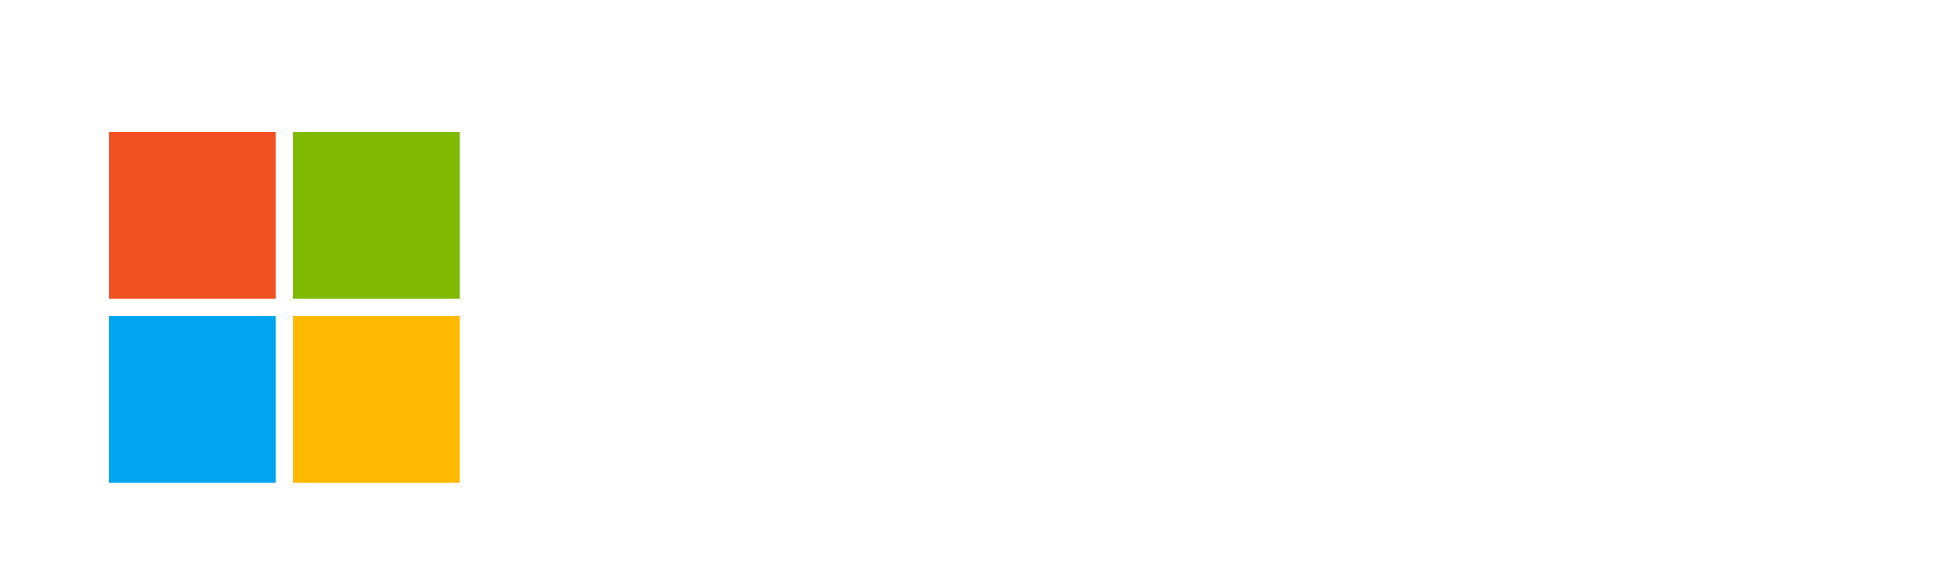
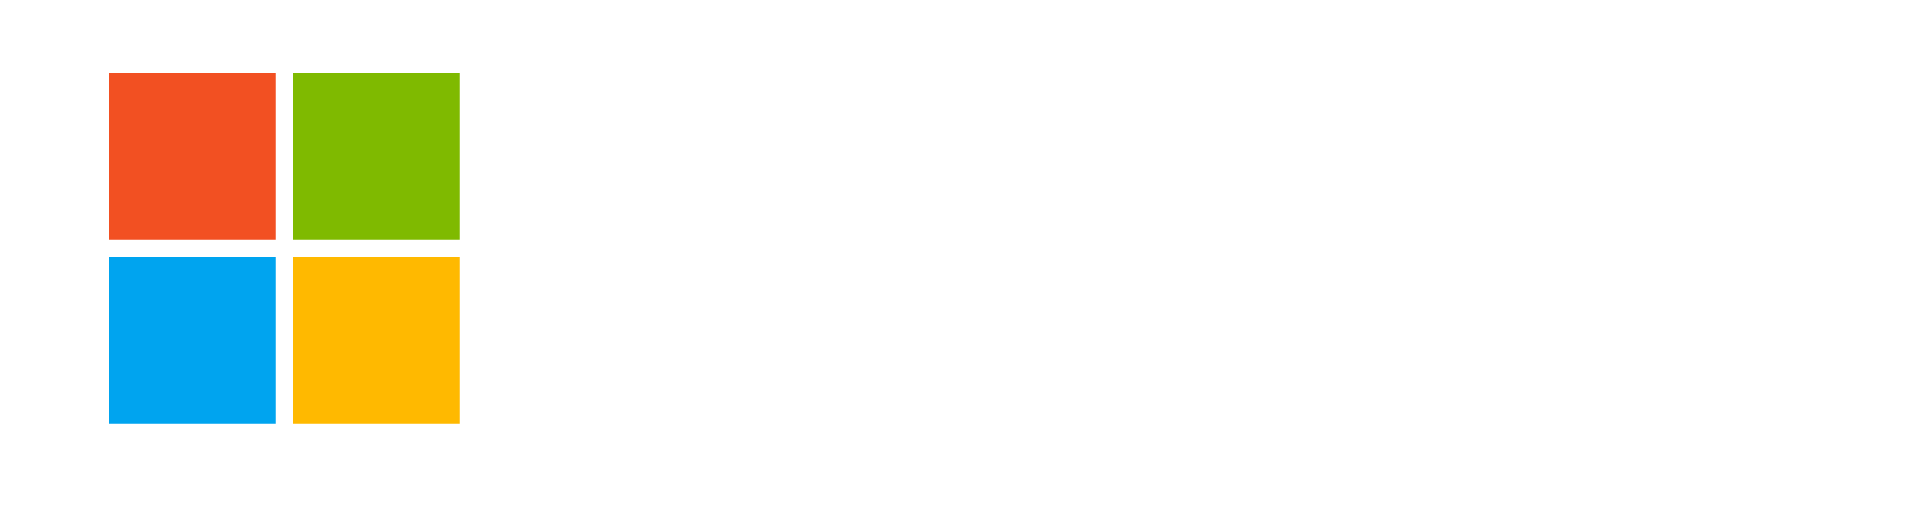
adjusted ui

Changed region(s): [[0.0309, 0.121, 0.247, 0.8469]]

diff --git a/index.html b/index.html
@@ -92,9 +92,9 @@
     </h2>
     <ul style="margin-top: 0;">
       <li style="margin-bottom: -14px;">software engineer @<img src="imgs/ar.png" style="width: 105px; height: auto; vertical-align: middle; padding-bottom: 4px; padding-left: -10px;"></li>
-      <li style="margin-bottom: 0px;">software engineer @<img src="imgs/ms.png" style="width: 75px; height: auto; vertical-align: middle; padding-left: 6px;"> </li>
-      <li style="margin-bottom: 2px;">software engineer @<img src="imgs/a.png" style="width: 50px; height: auto; vertical-align: middle; padding-left: 7px;"></li>
-      <li style="margin-bottom: 1.5px;">software engineer @<img src="imgs/sap.png" style="width: 30px; height: auto; vertical-align: middle; padding-left: 9px;"></li>
+      <li style="margin-bottom: 2px;">software engineer @<img src="imgs/ms.png" style="width: 80px; height: auto; vertical-align: middle; padding-left: 6px;"> </li>
+      <li style="margin-bottom: 4px;">software engineer @<img src="imgs/a.png" style="width: 50px; height: auto; vertical-align: middle; padding-left: 7px;"></li>
+      <li style="margin-bottom: 3.5px;">software engineer @<img src="imgs/sap.png" style="width: 30px; height: auto; vertical-align: middle; padding-left: 9px;"></li>
       <li style="margin-bottom: 0px;">software engineer @<img src="imgs/google.png" style="width: 50px; height: auto; vertical-align: middle; padding-left: 6px;"> </li>
     </ul>
   </section>
@@ -151,7 +151,7 @@
 
 
   <section>
-    <h2 style="text-decoration: line-through; text-decoration-color: #000000; text-decoration-thickness: 0.1px;">fun</h2>
+    <h2 style="text-decoration: line-through; text-decoration-color: #000000; text-decoration-thickness: 0.1px; margin-bottom: 5px;">fun</h2>
     <table>
     <colgroup>
          <col span="1" style="width: 20%;">
